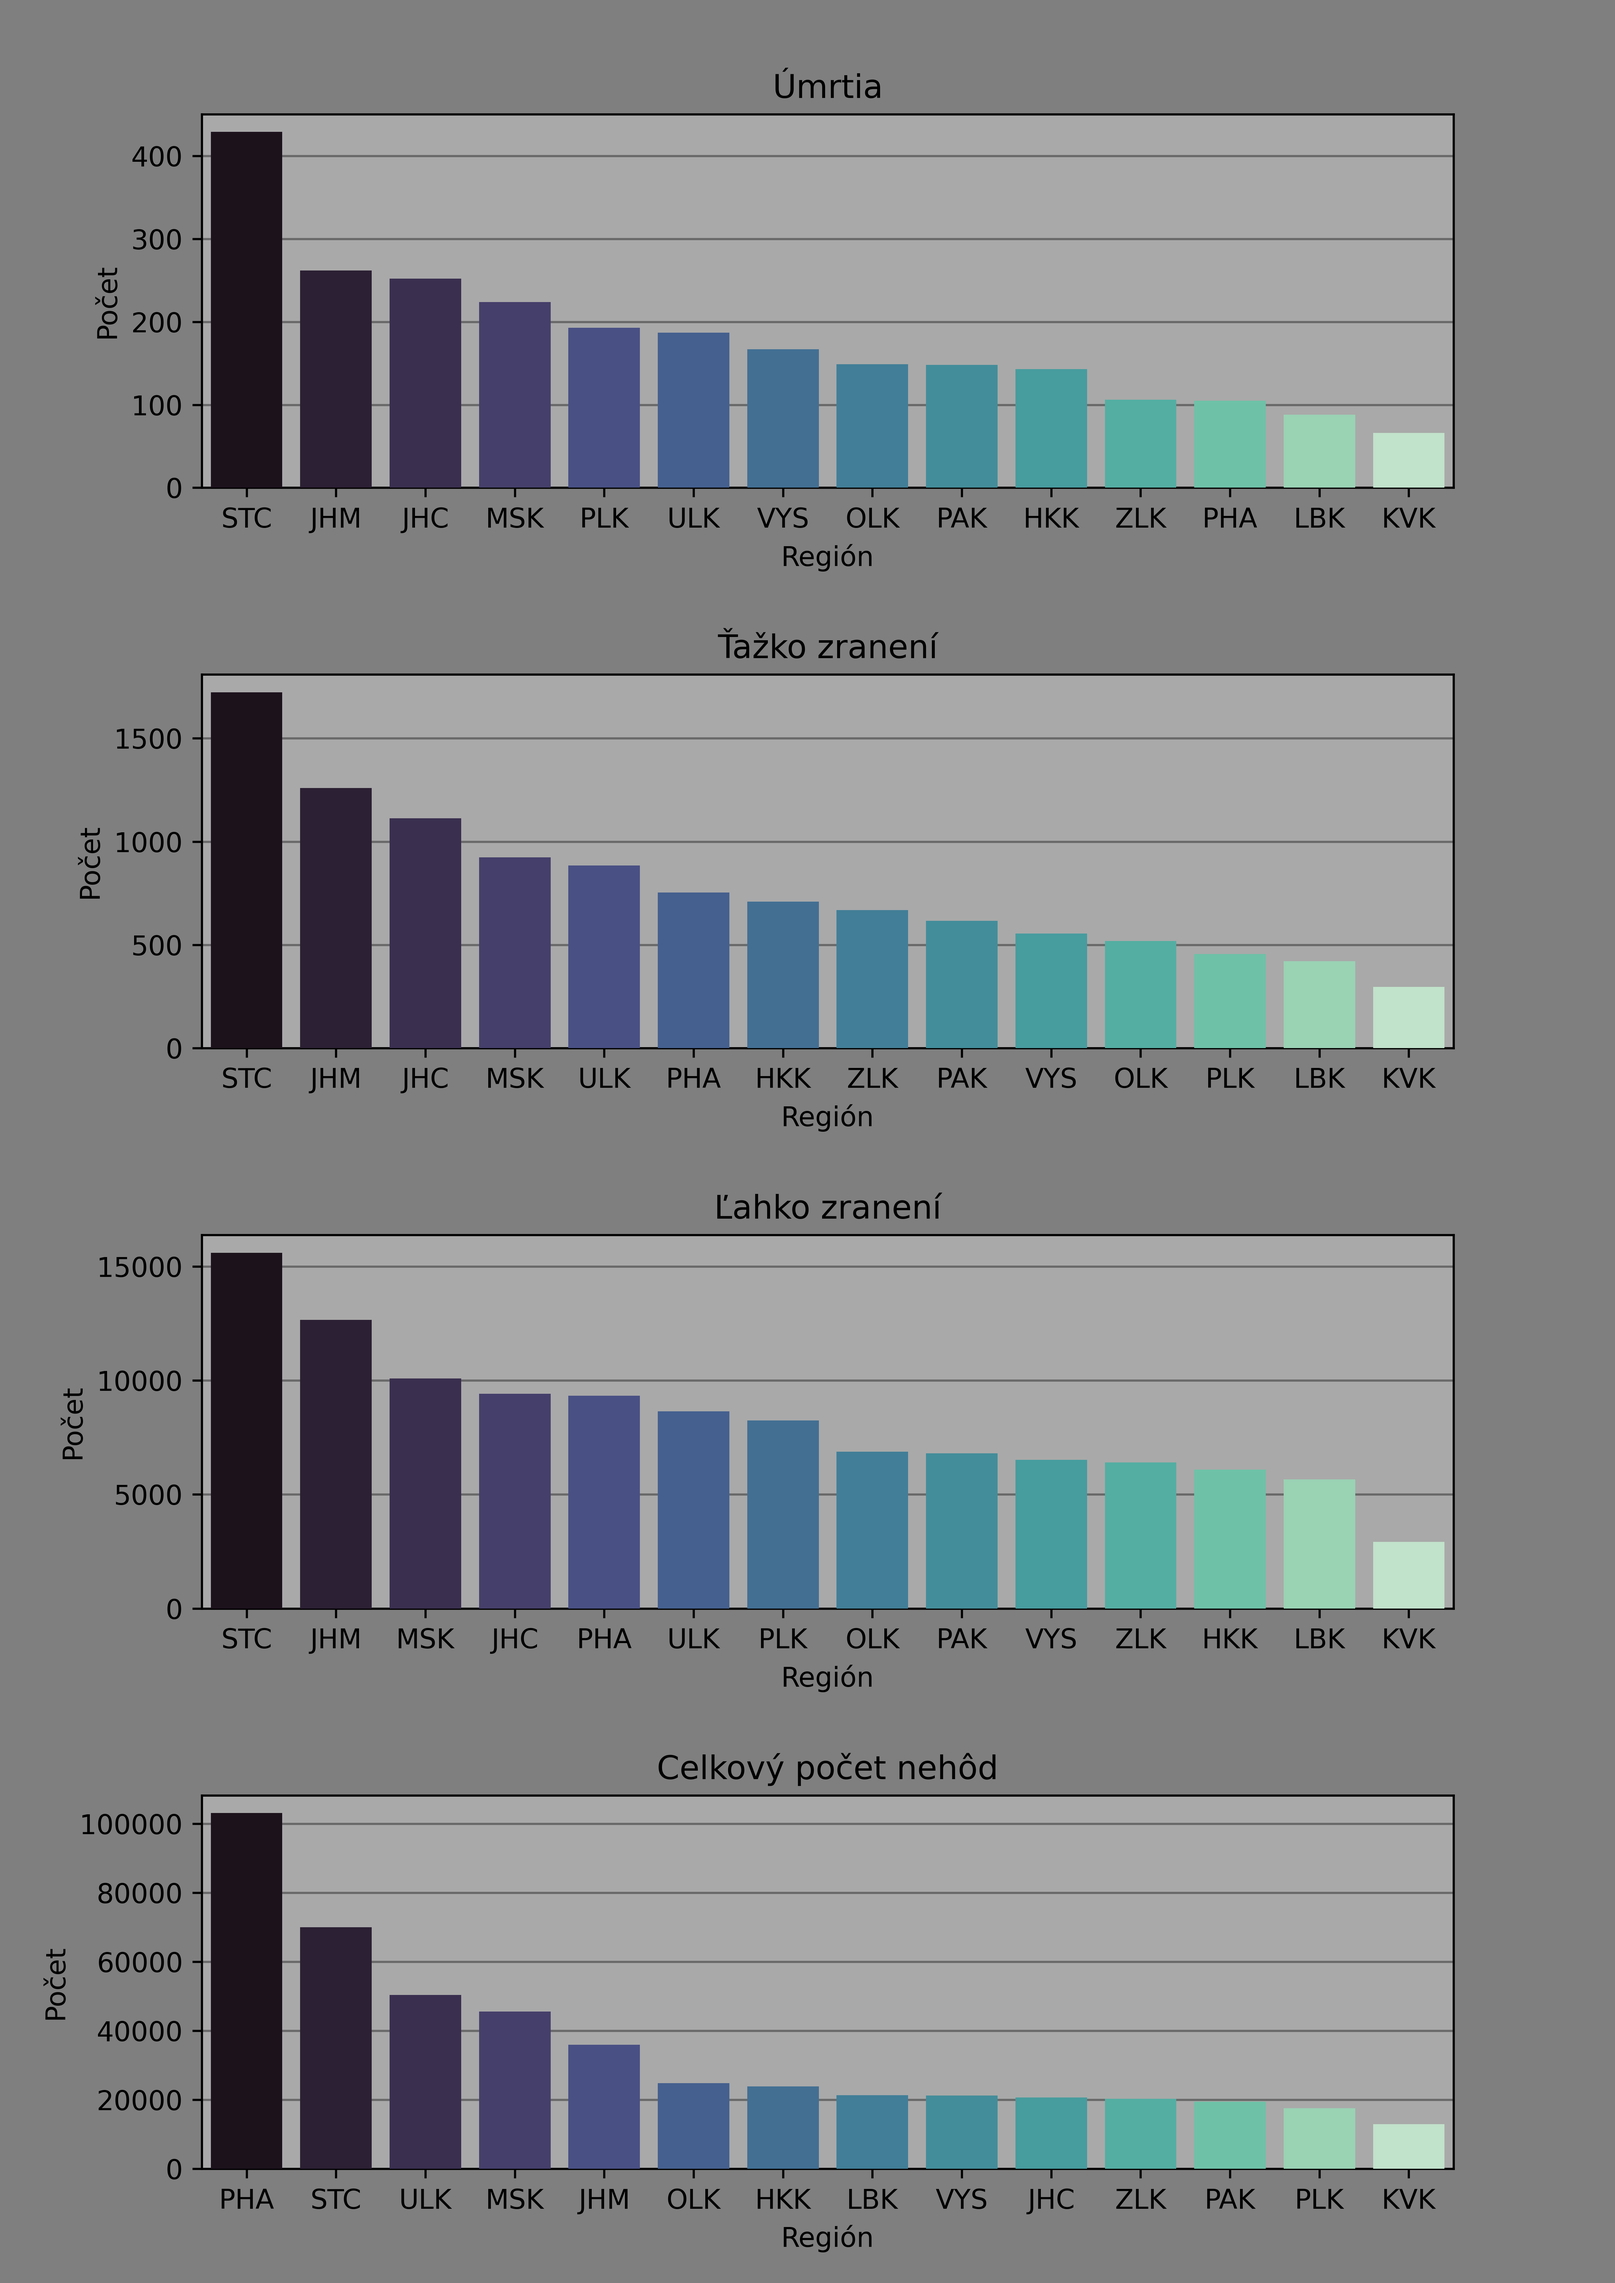
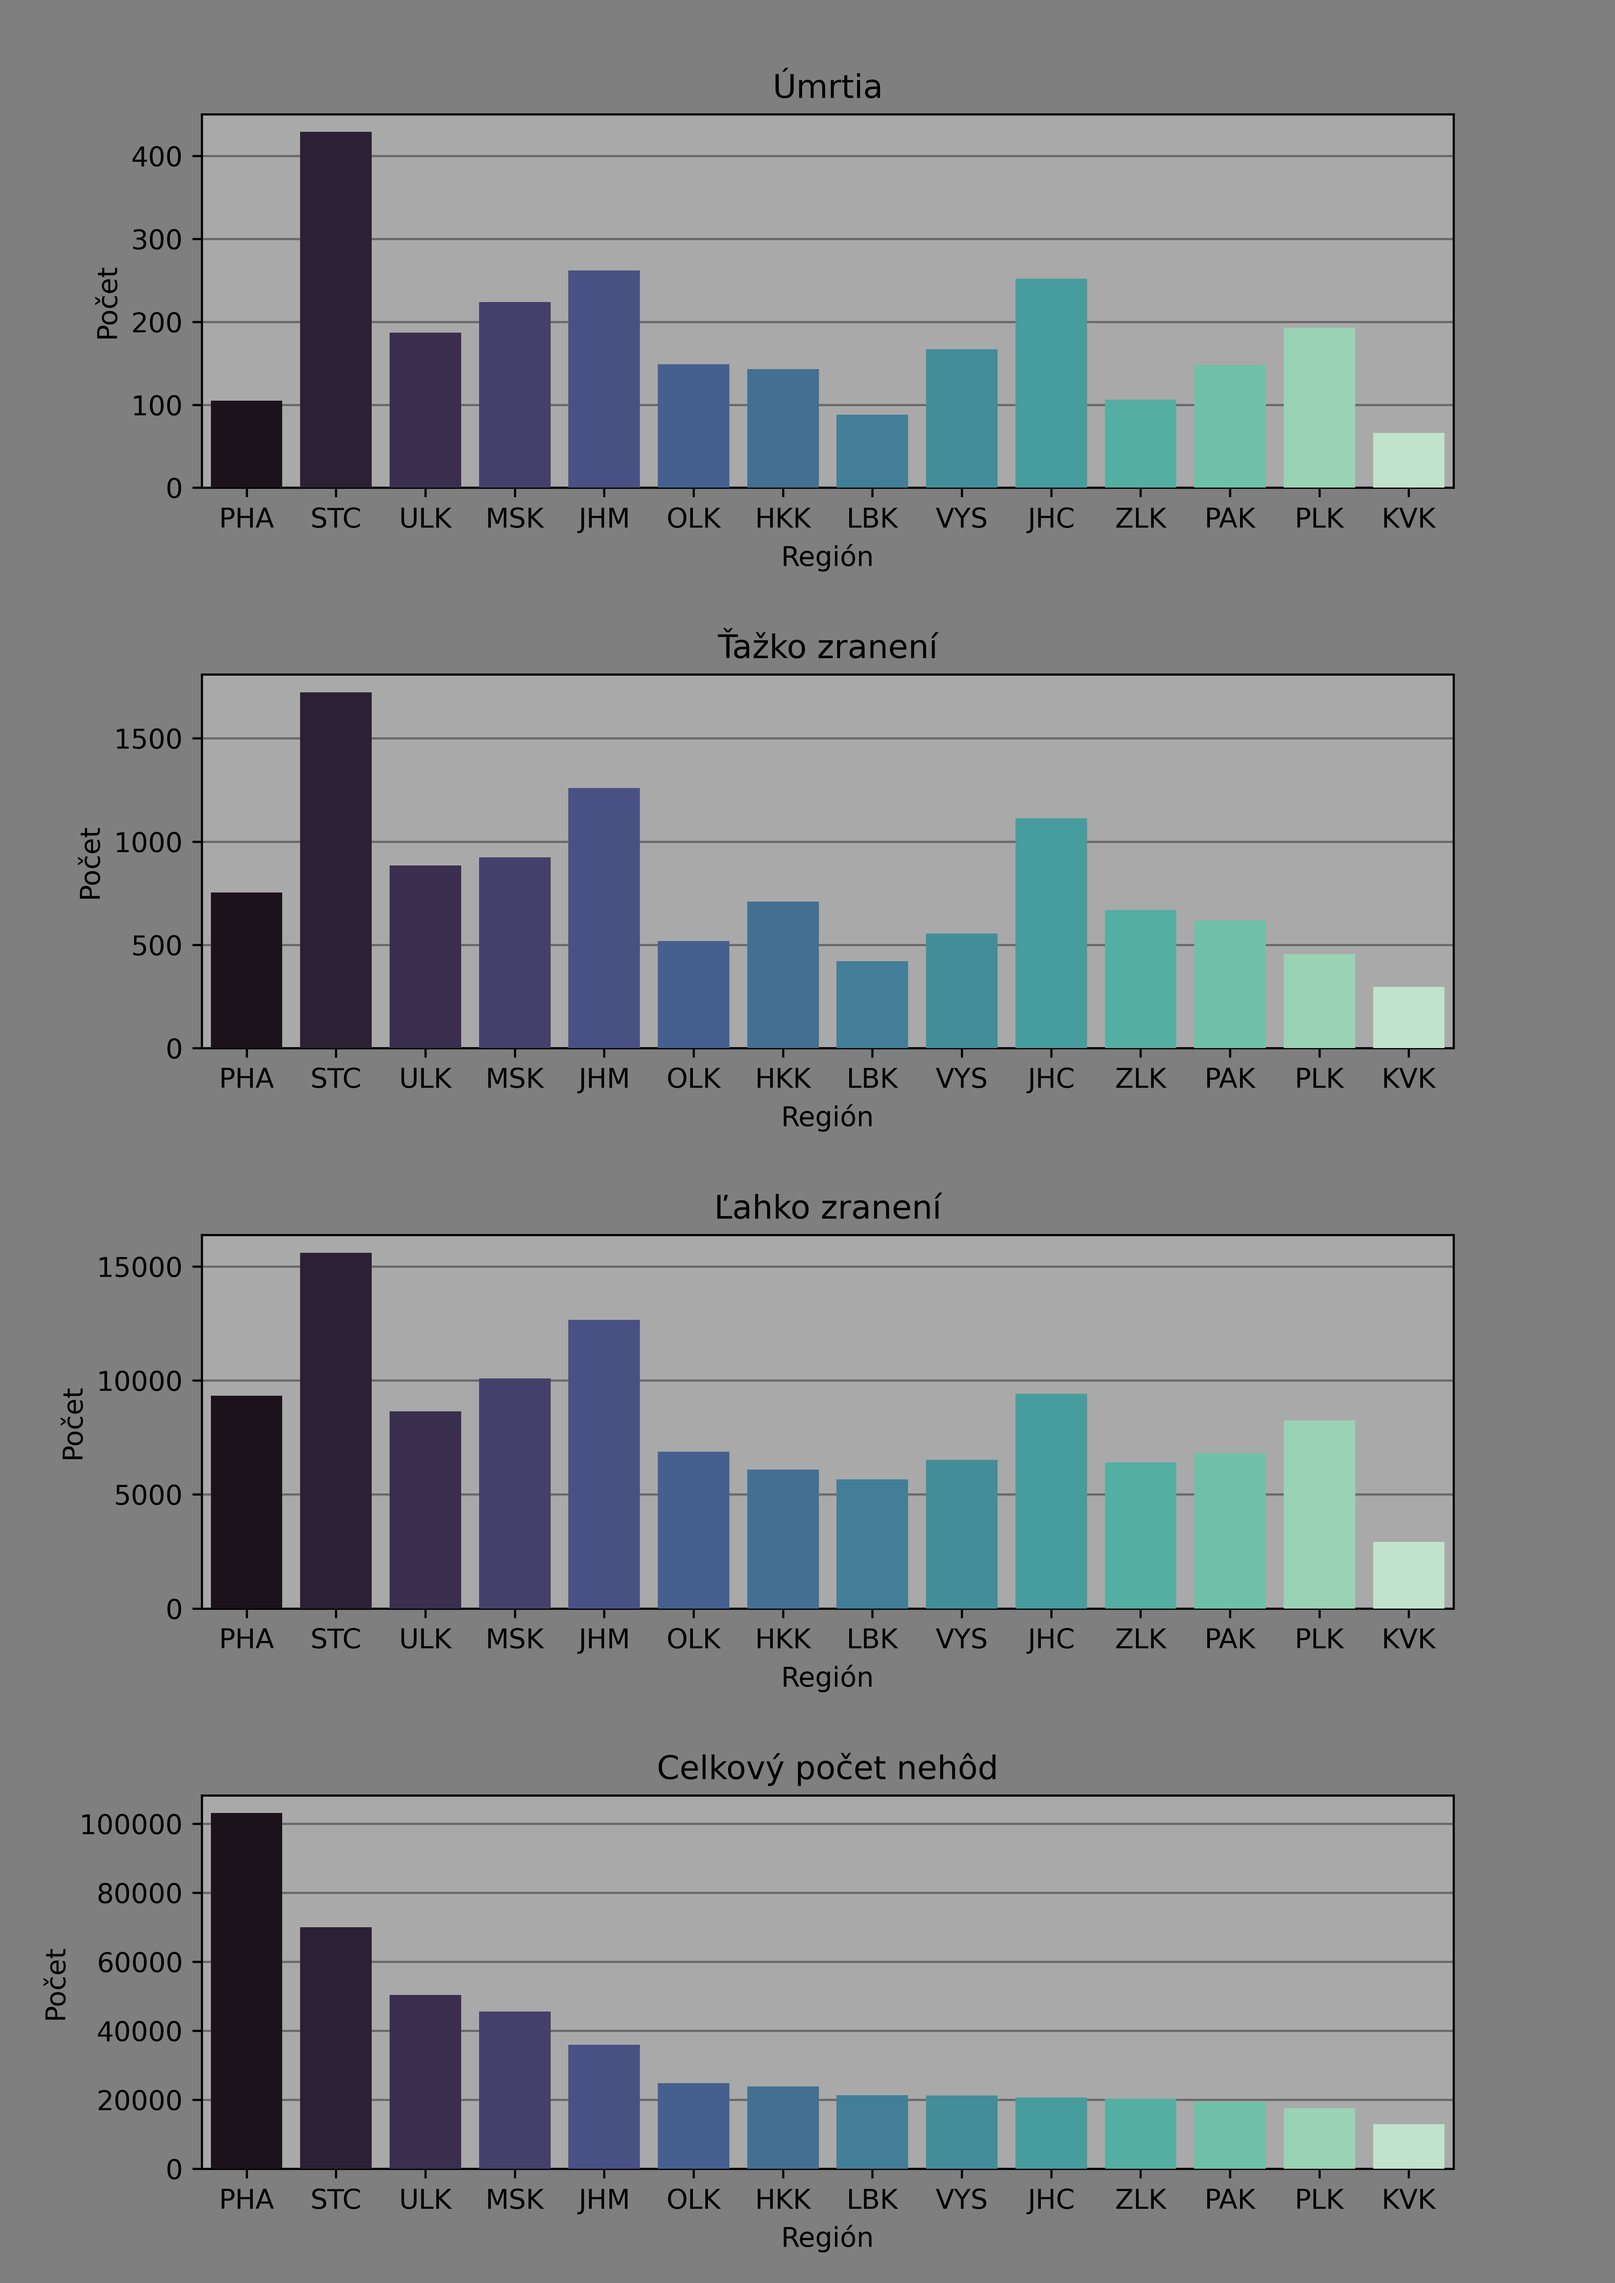
IZV 2.cast done

diff --git a/3.ročník/IZV/projekt/analysis.py b/3.ročník/IZV/projekt/analysis.py
@@ -37,17 +37,17 @@ def get_dataframe(filename: str, verbose: bool = False) -> pd.DataFrame:
 # Ukol 2: následky nehod v jednotlivých regionech
 def plot_conseq(df: pd.DataFrame, fig_location: str = None,
                 show_figure: bool = False):
-    df_deaths_by_region = df.groupby(['region']).agg({"p13a": "sum"}).reset_index().sort_values('p13a', ascending=False)
-    df_heavy_injured_by_region = df.groupby(['region']).agg({"p13b": "sum"}).reset_index().sort_values('p13b', ascending=False)
-    df_light_injured_by_region = df.groupby(['region']).agg({"p13c": "sum"}).reset_index().sort_values('p13c', ascending=False)
+    df_deaths_by_region = df.groupby(['region']).agg({"p13a": "sum"}).reset_index()
+    df_heavy_injured_by_region = df.groupby(['region']).agg({"p13b": "sum"}).reset_index()
+    df_light_injured_by_region = df.groupby(['region']).agg({"p13c": "sum"}).reset_index()
     df_accidents_count_by_region = df.groupby(['region']).agg({"p1": "count"}).reset_index().sort_values('p1', ascending=False)
     fig, ax = plt.subplots(4, figsize=(8.27, 11.69))
     fig.patch.set_facecolor('tab:gray')
-    sns.barplot(ax=ax[0], data=df_deaths_by_region, x="region", y="p13a", palette='mako', zorder=3)
+    sns.barplot(ax=ax[0], data=df_deaths_by_region, x="region", y="p13a", palette='mako', zorder=3, order=df_accidents_count_by_region["region"])
     ax[0].title.set_text('Úmrtia')
-    sns.barplot(ax=ax[1], data=df_heavy_injured_by_region, x="region", y="p13b", palette='mako', zorder=3)
+    sns.barplot(ax=ax[1], data=df_heavy_injured_by_region, x="region", y="p13b", palette='mako', zorder=3, order=df_accidents_count_by_region["region"])
     ax[1].title.set_text('Ťažko zranení')
-    sns.barplot(ax=ax[2], data=df_light_injured_by_region, x="region", y="p13c", palette='mako', zorder=3)
+    sns.barplot(ax=ax[2], data=df_light_injured_by_region, x="region", y="p13c", palette='mako', zorder=3, order=df_accidents_count_by_region["region"])
     ax[2].title.set_text('Ľahko zranení')
     sns.barplot(ax=ax[3], data=df_accidents_count_by_region, x="region", y="p1", palette='mako', zorder=3)
     ax[3].title.set_text('Celkový počet nehôd')
@@ -72,7 +72,6 @@ def plot_damage(df: pd.DataFrame, fig_location: str = None,
                 show_figure: bool = False):
 
     df.drop(df.columns.difference(['p1', 'region','p12', 'p53']), 1, inplace=True)
-    print(df)
     df.drop(df[(df['region'] != "JHM") & (df['region'] != "HKK") & (df['region'] != "PLK") & (df['region'] != "PHA")].index, inplace=True)
     df['p53'] = df['p53']/10
     df["pricina"] = pd.cut(df["p12"], [np.NINF, 200,300,400,500,600,700], labels=["nezaviněná řidičem", 
@@ -88,31 +87,34 @@ def plot_damage(df: pd.DataFrame, fig_location: str = None,
     df_skoda_PLK = df.loc[df["region"] == "PLK"].groupby(['skoda', 'pricina']).size().reset_index(name='pocet') 
     df_skoda_PHA = df.loc[df["region"] == "PHA"].groupby(['skoda', 'pricina']).size().reset_index(name='pocet') 
 
-    fig, ax = plt.subplots(nrows=2, ncols=2, figsize=(8.27, 11.69))
+    fig, ax = plt.subplots(nrows=2, ncols=2, sharey=True, sharex=True, figsize=(11.69, 8.27))
     fig.patch.set_facecolor('darkgray')
     sns.set_style("darkgrid")
     sns.barplot(ax=ax[0][0], data=df_skoda_JHM, x="skoda", y="pocet", hue="pricina", zorder=3)
     ax[0][0].title.set_text("JHM")
+    ax[0][0].set(ylabel="Počet", xlabel="")
     handles, labels = ax[0][0].get_legend_handles_labels()
     sns.barplot(ax=ax[0][1], data=df_skoda_HKK, x="skoda", y="pocet", hue="pricina", zorder=3)
     ax[0][1].title.set_text("HKK")
+    ax[0][1].set(ylabel="", xlabel="")
     sns.barplot(ax=ax[1][0], data=df_skoda_PLK, x="skoda", y="pocet", hue="pricina", zorder=3)
     ax[1][0].title.set_text("PLK")
+    ax[1][0].set(xlabel="Škoda [tisíc Kč]", ylabel="Počet")
+    ax[1][0].set_xticklabels(["< 50", "50 - 200", "200 - 500", "500 - 1000", "> 1000"])
     sns.barplot(ax=ax[1][1], data=df_skoda_PHA, x="skoda", y="pocet", hue="pricina", zorder=3)
     ax[1][1].title.set_text("PHA")
+    ax[1][1].set(xlabel="Škoda [tisíc Kč]", ylabel="")
+    ax[1][1].set_xticklabels(["< 50", "50 - 200", "200 - 500", "500 - 1000", "> 1000"])
 
     for row_ax in ax:
         for ax in row_ax:
             ax.set_yscale("log")
             ax.legend().remove()
-            ax.set(xlabel="Škoda [tisíc Kč]", ylabel="Počet")
-            ax.set_xticklabels(["< 50", "50 - 200", "200 - 500", "500 - 1000", "> 1000"])
-            plt.setp(ax.get_xticklabels(), rotation=30)
             ax.set_facecolor('#eaeaf2')
             ax.yaxis.grid(True, zorder=0, color='dimgrey')
-
-    fig.legend(handles, labels, loc='center right', bbox_to_anchor=(1.01, 0.39))
-    fig.subplots_adjust(hspace=0.35, wspace=0.25, top=0.95, bottom=0.1, right=0.95, left= 0.08)
+    
+    fig.legend(handles, labels, loc='center right', bbox_to_anchor=(1, 0.5), prop={'size': 8})
+    fig.subplots_adjust(hspace=0.2, wspace=0.15, top=0.95, bottom=0.1, right=0.83, left= 0.08)
     
     if fig_location is not None:
         os.makedirs(
@@ -127,7 +129,49 @@ def plot_damage(df: pd.DataFrame, fig_location: str = None,
 # Ukol 4: povrch vozovky
 def plot_surface(df: pd.DataFrame, fig_location: str = None,
                  show_figure: bool = False):
-    pass
+
+    df.drop(df.columns.difference(['p1', 'region','p16', 'date']), 1, inplace=True)
+    df.drop(df[(df['region'] != "JHM") & (df['region'] != "HKK") & (df['region'] != "PLK") & (df['region'] != "KVK")].index, inplace=True)
+    replace_values = {0 : 'iný stav', 1 : 'suchý - neznečistený', 2 : 'suchý - znečistený', 3 : 'mokrý', 4 : 'bláto', 5 : 'náledí, ujetý sníh - posypané', 6 : 'náledí, ujetý sníh - neposypané', 7 : 'rozlitý olej, nafta apod.', 8 : 'sněhová vrstva, rozbředlý sníh', 9 : 'náhla zmena stavu' }     
+    df.replace({'p16' : replace_values}, inplace=True)
+
+    df_povrch_JHM = df.loc[df["region"] == "JHM"].groupby(['p16', pd.Grouper(key='date', freq='M')]).size().reset_index(name='pocet')
+    df_povrch_HKK = df.loc[df["region"] == "HKK"].groupby(['p16', pd.Grouper(key='date', freq='M')]).size().reset_index(name='pocet')
+    df_povrch_PLK = df.loc[df["region"] == "PLK"].groupby(['p16', pd.Grouper(key='date', freq='M')]).size().reset_index(name='pocet')
+    df_povrch_KVK = df.loc[df["region"] == "KVK"].groupby(['p16', pd.Grouper(key='date', freq='M')]).size().reset_index(name='pocet')
+
+
+    fig, ax = plt.subplots(nrows=2, ncols=2, sharey=True, sharex=True, figsize=(11.69, 8.27))
+    fig.patch.set_facecolor('tab:gray')
+    sns.lineplot(ax=ax[0][0], x="date", y="pocet", hue="p16", data=df_povrch_JHM, zorder=3, palette="Dark2_r")
+    ax[0][0].title.set_text("JHM")
+    handles, labels = ax[0][0].get_legend_handles_labels()
+    sns.lineplot(ax=ax[0][1], x="date", y="pocet", hue="p16", data=df_povrch_HKK, zorder=3, palette="Dark2_r")
+    ax[0][1].title.set_text("HKK")
+    sns.lineplot(ax=ax[1][0], x="date", y="pocet", hue="p16", data=df_povrch_PLK, zorder=3, palette="Dark2_r")
+    ax[1][0].title.set_text("PLK")
+    sns.lineplot(ax=ax[1][1], x="date", y="pocet", hue="p16", data=df_povrch_KVK, zorder=3, palette="Dark2_r")
+    ax[1][1].title.set_text("KVK")
+
+    for row_ax in ax:
+        for ax in row_ax:
+            ax.legend().remove()
+            ax.set(xlabel="Dátum vzniku nehody", ylabel="Počet nehôd")
+            ax.set_facecolor('darkgray')
+            ax.yaxis.grid(True, zorder=0, color='dimgrey')
+
+    fig.legend(handles, labels, loc='center right', bbox_to_anchor=(1, 0.5), prop={'size': 8})
+    fig.subplots_adjust(hspace=0.20, wspace=0.15, top=0.9, bottom=0.1, right=0.83, left= 0.08)
+
+    if fig_location is not None:
+        os.makedirs(
+            os.path.dirname(
+                os.path.abspath(fig_location)),
+            exist_ok=True)
+        plt.savefig(fig_location, dpi=600)
+    
+    if show_figure:
+        plt.show()
 
 
 if __name__ == "__main__":
@@ -138,4 +182,4 @@ if __name__ == "__main__":
     df = get_dataframe("accidents.pkl.gz", verbose=True)
     #plot_conseq(df, fig_location="01_nasledky.png", show_figure=True)
     plot_damage(df, "02_priciny.png", True)
-    plot_surface(df, "03_stav.png", True)
+    #plot_surface(df, "03_stav.png", True)
